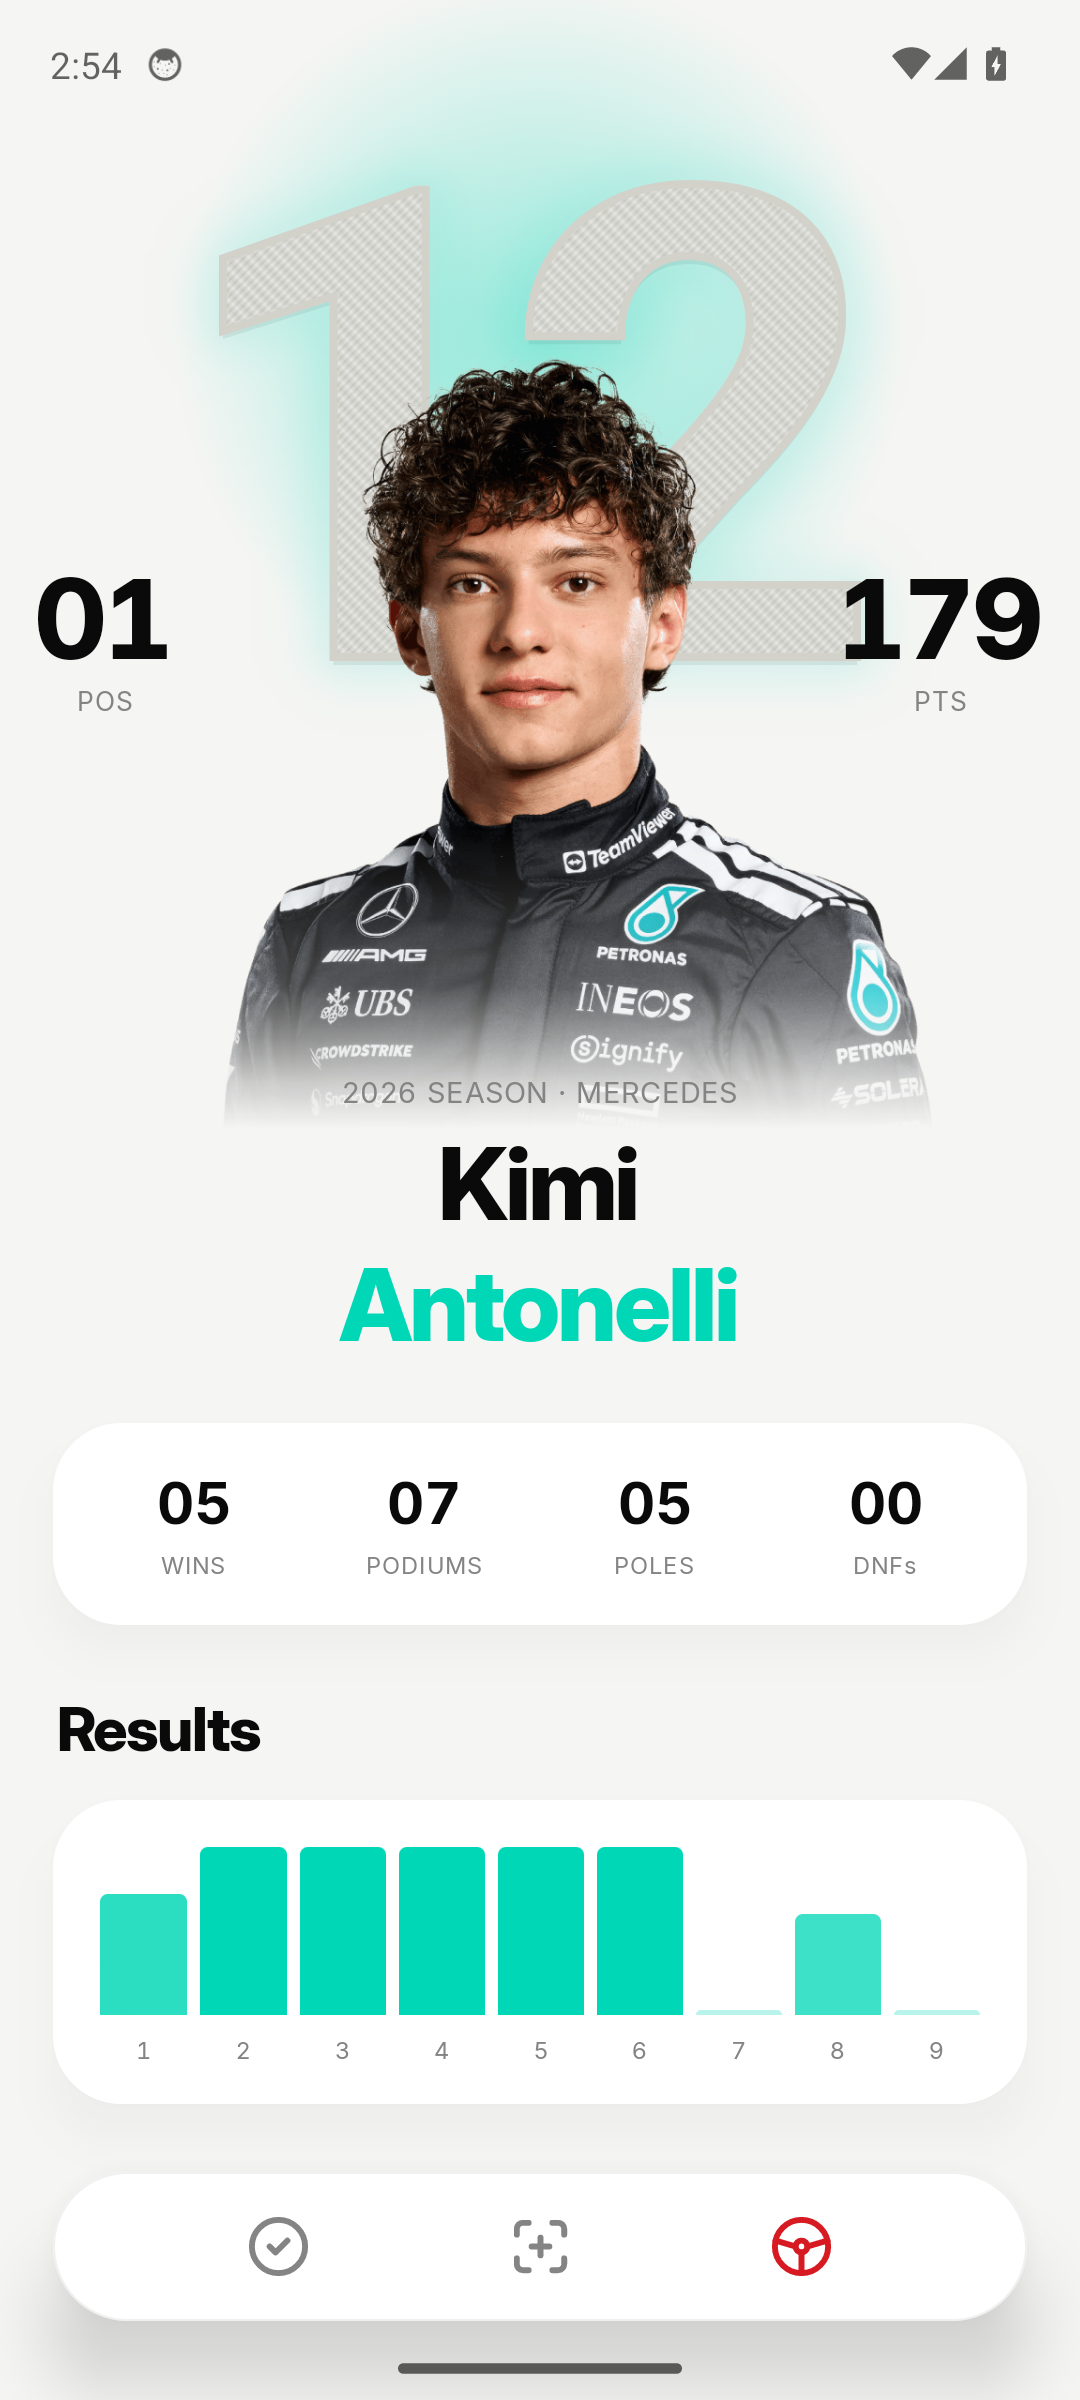
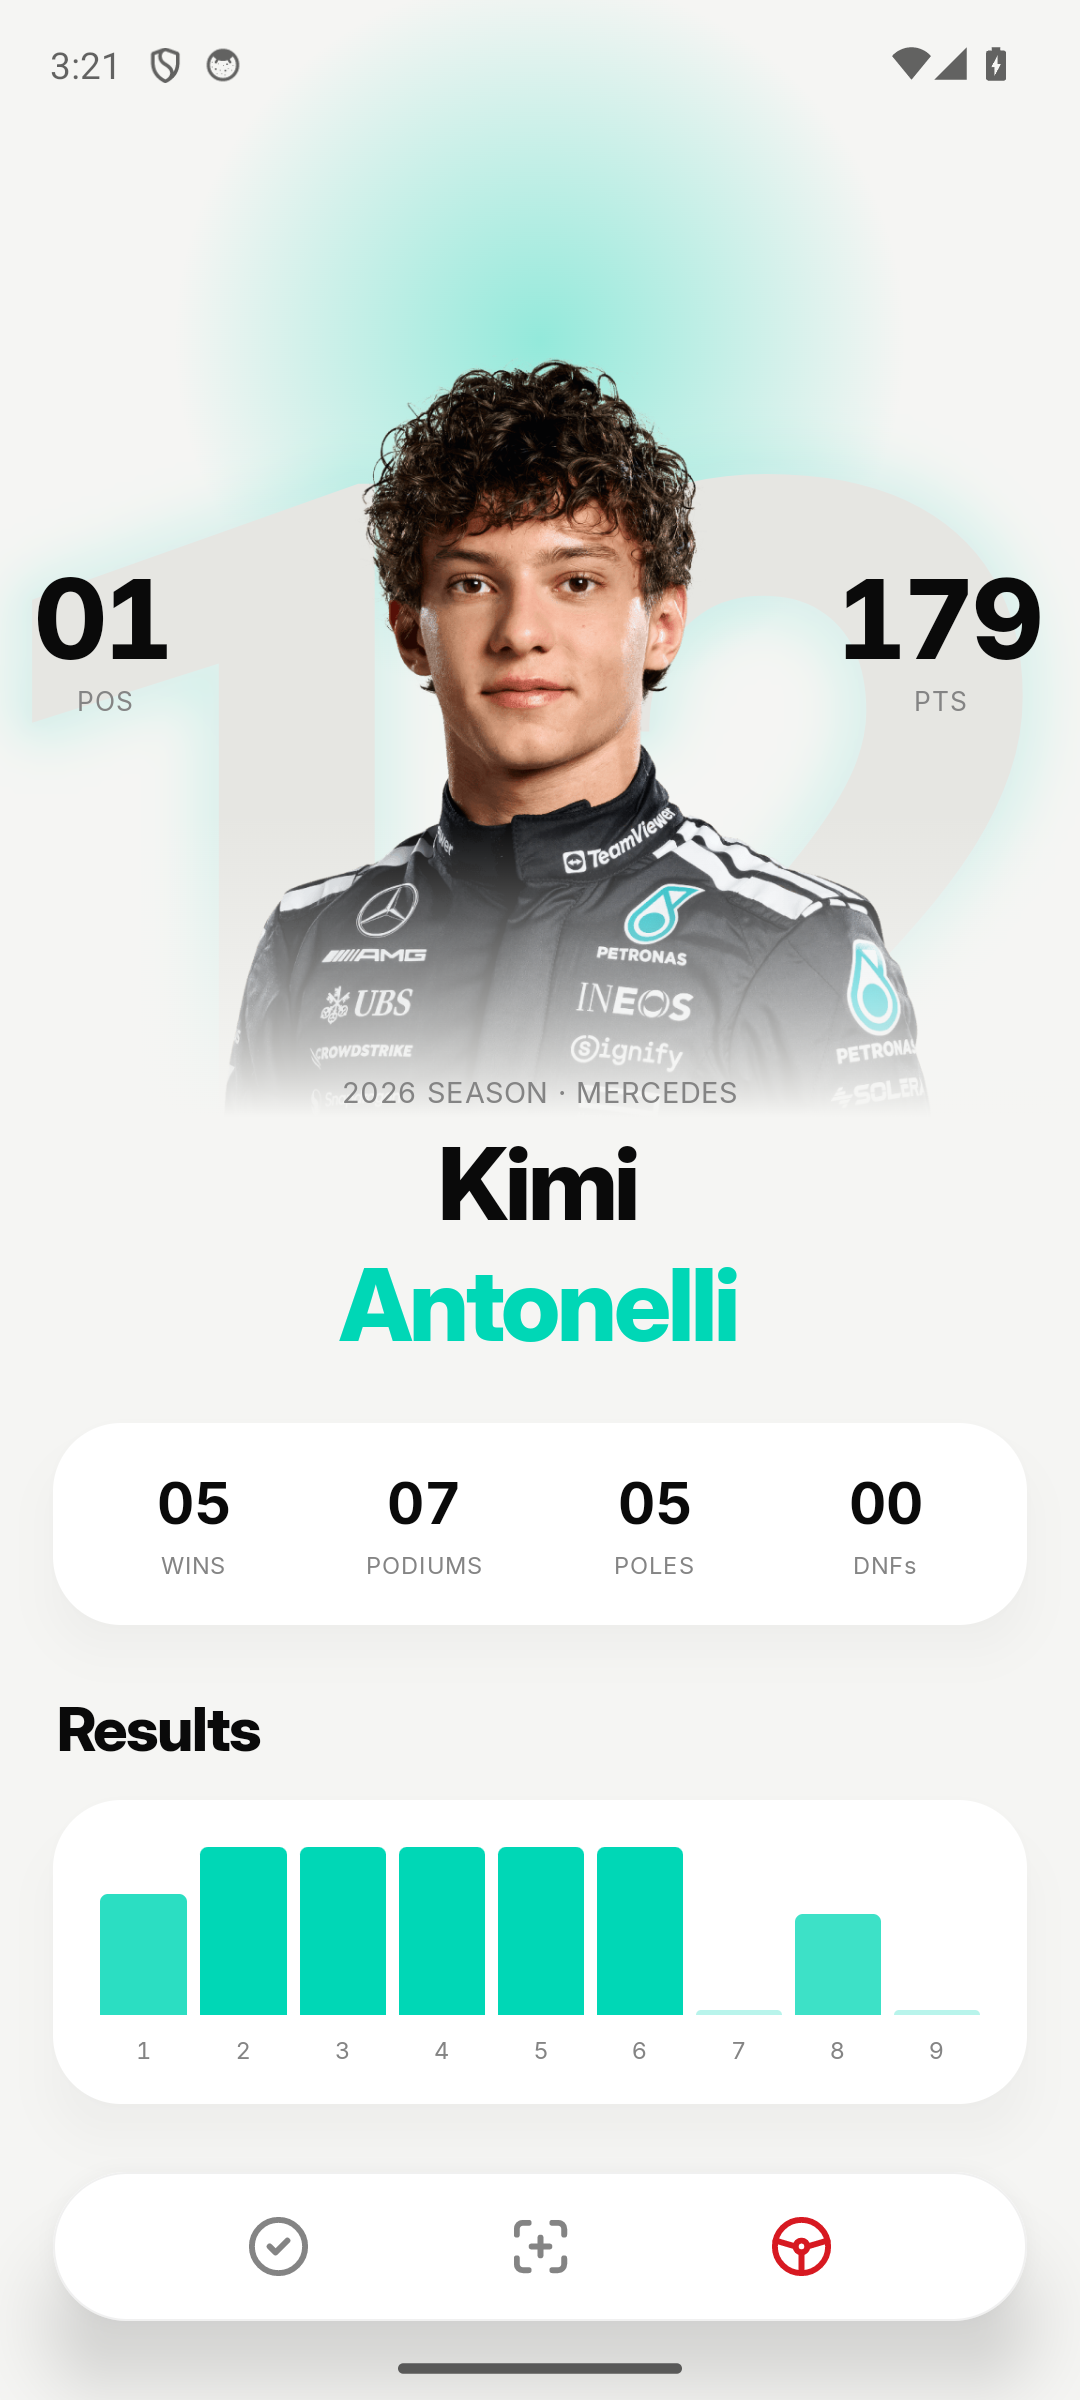
v1.1.1 — hero number rework + occlusion fix
- Width-target scaling (~95% of hero), tight tracking (-0.11em), lower center
  (64%) so the number reads as one unit and drops under the name.
- Solid dark-carbon fill + team glow (dropped the twill/stroke).
- Name-fade gradient dissolves the number's base into the name block.
- Fix: driver photo is now opaque so the number can't bleed through the
  translucent suit and ghost over the driver; the bottom is dissolved by the
  name-fade's canvas plateau instead of a per-photo mask.
- versionCode 3 / versionName 1.1.1

diff --git a/app/src/main/java/dev/anpo/f1/ui/Screens.kt b/app/src/main/java/dev/anpo/f1/ui/Screens.kt
@@ -14,11 +14,13 @@ import androidx.compose.ui.BiasAlignment
 import androidx.compose.ui.Modifier
 import androidx.compose.ui.draw.alpha
 import androidx.compose.ui.draw.clip
+import androidx.compose.ui.graphics.Brush
 import androidx.compose.ui.graphics.Color
 import androidx.compose.ui.layout.ContentScale
 import androidx.compose.ui.res.painterResource
 import androidx.compose.ui.unit.dp
 import androidx.compose.ui.unit.sp
+import androidx.compose.ui.zIndex
 import dev.anpo.f1.R
 import dev.anpo.f1.data.*
 import coil.compose.AsyncImage
@@ -328,37 +330,36 @@ fun DriverScreen(repo: Repo, driverId: String) {
         // The figure is lifted (offset) so the name block sits over the FADED tail of
         // the photo, not the solid chest - otherwise the season line is unreadable.
         Box(Modifier.fillMaxWidth().height(520.dp).glow(col)) {
-            // Number runs BIG (250sp) so it spills past the head silhouette on both
-            // sides - that overspill is what reads as "behind the figure", not the
-            // photo's position. Canvas pulled up (top 20dp) to sit above the face.
-            CarbonNumber("${d.number ?: 0}", col,
-                Modifier.fillMaxWidth().height(300.dp).align(Alignment.TopCenter).padding(top = 20.dp),
-                sizeSp = 250f)
+            // The number fills the whole hero, self-sizes to ~95% width, and sits low so
+            // the tops bleed behind the head and the base drops into the name.
+            CarbonNumber("${d.number ?: 0}", col, Modifier.matchParentSize())
             if (key != null) {
-                // The mask goes on a WRAPPER, not on AsyncImage: Coil composites its
-                // painter in its own layer, so a DstIn rect on the image's own modifier
-                // never touches its pixels. As the Box's child, the photo is pulled into
-                // the offscreen layer by drawContent() and the fade actually bites. Square
-                // box so the square headshot fills it with the chest at the box's bottom
-                // (no letterbox), then the whole thing is masked and lifted 90dp.
-                Box(Modifier.size(300.dp).align(Alignment.BottomCenter)
-                    .offset(y = (-90).dp).fadeBottom()) {
-                    // Original colour. Team identity comes from the surroundings, not the person.
-                    AsyncImage(
-                        model = Net.headshot(key), contentDescription = "${d.given} ${d.family}",
-                        contentScale = ContentScale.Fit, modifier = Modifier.fillMaxSize()
-                    )
-                }
+                // OPAQUE - no per-photo fade. The photo must fully occlude the number
+                // behind it, or the number bleeds through the translucent suit and reads
+                // as a low-opacity overlay ON the driver. The bottom is dissolved by the
+                // name-fade below instead. Square box: chest sits at the box's bottom.
+                AsyncImage(
+                    model = Net.headshot(key), contentDescription = "${d.given} ${d.family}",
+                    contentScale = ContentScale.Fit,
+                    modifier = Modifier.size(300.dp).align(Alignment.BottomCenter).offset(y = (-90).dp)
+                )
             }
-            // Pinned to ~46% of the hero (not centre, which is mid-torso in a 520dp
-            // box) so POS/PTS sit at the shoulder line, flanking the face.
-            Column(Modifier.align(BiasAlignment(-1f, -0.08f)).padding(start = 14.dp).wrapContentWidth(),
+            // Name-fade: dissolves BOTH the photo's bottom edge and the number's base into
+            // the canvas. The canvas plateau (from ~55%) fully covers the number where it
+            // sits behind the lower figure; the fade-in blends the driver's chest. This is
+            // the single bottom dissolve - it replaces the photo's own DstIn mask.
+            Box(Modifier.align(Alignment.BottomCenter).fillMaxWidth().height(210.dp)
+                .background(Brush.verticalGradient(0f to Color.Transparent, 0.55f to p.canvas, 1f to p.canvas)))
+            // Pinned to ~46% of the hero (relative to the Box, NOT the number) so they
+            // stay at the shoulder line when the number drops. zIndex keeps them above
+            // the carbon, which now reaches up into this band.
+            Column(Modifier.align(BiasAlignment(-1f, -0.08f)).zIndex(1f).padding(start = 14.dp).wrapContentWidth(),
                 horizontalAlignment = Alignment.CenterHorizontally) {
                 Text("%02d".format(d.position), style = F1Type.display.copy(color = p.txt, fontSize = 42.sp),
                     maxLines = 1, softWrap = false)
                 Text("POS", style = F1Type.label.copy(color = p.sec))
             }
-            Column(Modifier.align(BiasAlignment(1f, -0.08f)).padding(end = 14.dp).wrapContentWidth(),
+            Column(Modifier.align(BiasAlignment(1f, -0.08f)).zIndex(1f).padding(end = 14.dp).wrapContentWidth(),
                 horizontalAlignment = Alignment.CenterHorizontally) {
                 Text("${d.points}", style = F1Type.display.copy(color = p.txt, fontSize = 42.sp),
                     maxLines = 1, softWrap = false)
@@ -504,8 +505,7 @@ fun ConstructorScreen(repo: Repo, teamId: String, onDriver: (String) -> Unit) {
 
     Column(Modifier.fillMaxSize().background(p.canvas).verticalScroll(rememberScrollState())) {
         Box(Modifier.fillMaxWidth().height(430.dp).glow(col)) {
-            CarbonNumber("%02d".format(position), col,
-                Modifier.fillMaxWidth().height(250.dp).align(Alignment.TopCenter).padding(top = 24.dp), sizeSp = 200f)
+            CarbonNumber("%02d".format(position), col, Modifier.matchParentSize())
             // Both drivers, overlapping slightly, tappable through to their pages.
             Row(Modifier.align(Alignment.TopCenter).padding(top = 128.dp)) {
                 teamDrivers.forEachIndexed { i, dr ->
@@ -530,12 +530,15 @@ fun ConstructorScreen(repo: Repo, teamId: String, onDriver: (String) -> Unit) {
                     }
                 }
             }
-            Column(Modifier.align(BiasAlignment(-1f, -0.15f)).padding(start = 14.dp).wrapContentWidth(),
+            // Name-fade: dissolve the position number's base into the constructor name.
+            Box(Modifier.align(Alignment.BottomCenter).fillMaxWidth().height(120.dp)
+                .background(Brush.verticalGradient(listOf(Color.Transparent, p.canvas))))
+            Column(Modifier.align(BiasAlignment(-1f, -0.15f)).zIndex(1f).padding(start = 14.dp).wrapContentWidth(),
                 horizontalAlignment = Alignment.CenterHorizontally) {
                 Text("${team.points}", style = F1Type.display.copy(color = p.txt, fontSize = 38.sp), maxLines = 1, softWrap = false)
                 Text("PTS", style = F1Type.label.copy(color = p.sec))
             }
-            Column(Modifier.align(BiasAlignment(1f, -0.15f)).padding(end = 14.dp).wrapContentWidth(),
+            Column(Modifier.align(BiasAlignment(1f, -0.15f)).zIndex(1f).padding(end = 14.dp).wrapContentWidth(),
                 horizontalAlignment = Alignment.CenterHorizontally) {
                 Text("${info.champs}", style = F1Type.display.copy(color = p.txt, fontSize = 38.sp), maxLines = 1, softWrap = false)
                 Text("TITLES", style = F1Type.label.copy(color = p.sec))

diff --git a/app/src/main/java/dev/anpo/f1/ui/Components.kt b/app/src/main/java/dev/anpo/f1/ui/Components.kt
@@ -199,33 +199,33 @@ fun StatBlock(value: String, label: String, modifier: Modifier = Modifier) {
  * than as stripes; on a 3x screen each rib gets 18 physical pixels.
  */
 @Composable
-fun CarbonNumber(number: String, glowColour: Color, modifier: Modifier = Modifier, sizeSp: Float = 186f) {
+fun CarbonNumber(number: String, glowColour: Color, modifier: Modifier = Modifier, centerFraction: Float = 0.64f) {
     val p = LocalPalette.current
     Canvas(modifier) {
-        // Compose's MultiParagraph.getPathForRange returns the SELECTION box of the
-        // text, not the glyph outlines - clipping carbon to it yields a rectangle.
-        // Go to the platform Paint for true outlines, which is what we clip against.
-        val paint = android.graphics.Paint(android.graphics.Paint.ANTI_ALIAS_FLAG).apply {
-            textSize = sizeSp.sp.toPx()
+        // getPathForRange returns the SELECTION box, not glyph outlines - use platform Paint.
+        // Tight tracking (-0.11em) so the two digits read as one unit ("12", "44"), not two.
+        fun makePaint(sizePx: Float) = android.graphics.Paint(android.graphics.Paint.ANTI_ALIAS_FLAG).apply {
+            textSize = sizePx
             typeface = android.graphics.Typeface.create(android.graphics.Typeface.DEFAULT, android.graphics.Typeface.BOLD)
-            letterSpacing = -0.06f
+            letterSpacing = -0.11f
             textAlign = android.graphics.Paint.Align.CENTER
         }
+        // Size to a TARGET WIDTH (~95% of the hero), not a fixed height: measure at a
+        // reference size then scale. "1" and "44" land at the same visual weight; coerceIn
+        // caps a lone "1" (which would otherwise be absurdly tall) and floors a wide number.
+        val refWidth = makePaint(100.sp.toPx()).measureText(number).coerceAtLeast(1f)
+        val finalSp = (100f * (size.width * 0.95f / refWidth)).coerceIn(160f, 480f)
         val glyph = android.graphics.Path()
-        paint.getTextPath(number, 0, number.length, 0f, 0f, glyph)
+        makePaint(finalSp.sp.toPx()).getTextPath(number, 0, number.length, 0f, 0f, glyph)
         val b = android.graphics.RectF()
         glyph.computeBounds(b, true)
-        glyph.offset(size.width / 2f - b.centerX(), size.height / 2f - b.centerY())
+        // Centre horizontally on the face; vertical centre low (~64%) so the tops bleed up
+        // behind the head and the base drops into the name area (masked by the name-fade).
+        glyph.offset(size.width / 2f - b.centerX(), size.height * centerFraction - b.centerY())
         val path = glyph.asComposePath()
 
-        // 1. Engrave, under everything: same glyph +3dp Y, a hairline of light. The
-        //    sliver peeking below each lower edge is what reads as an engraved recess.
-        val lip = android.graphics.Path(glyph).apply { offset(0f, 3.dp.toPx()) }
-        drawPath(lip.asComposePath(), color = p.engrave)
-
-        // 2. Glow FOLLOWS the glyph, not a circle behind it: a blurred stroke of the
-        //    actual path - wide team-colour, then tight neutral - so the halo wraps the
-        //    digits' contour (drop-shadow-on-alpha, per the reference).
+        // Team glow behind: a blurred stroke of the glyph outline - wide colour, tight
+        // neutral - so the halo wraps the digits' contour (drop-shadow on the alpha).
         drawIntoCanvas { canvas ->
             val gp = Paint().asFrameworkPaint().apply {
                 isAntiAlias = true
@@ -240,37 +240,8 @@ fun CarbonNumber(number: String, glowColour: Color, modifier: Modifier = Modifie
             canvas.nativeCanvas.drawPath(glyph, gp)
         }
 
-        // 3. Carbon fill, clipped to the glyph. Exact port of the reference recipe
-        //    (f1-tab-complete.html .cbD/.cbL): opaque 45deg #23232B/#14141A bands (the
-        //    dominant rib), a faint 45deg sheen, then a 135deg cross-fibre. The sheen
-        //    reinforces the diagonal so the cross reads as weave, not a lattice.
-        clipPath(path) {
-            val h = size.height
-            val period = 6.dp.toPx()   // rib period
-            val fine = 3.dp.toPx()     // sheen / cross period
-            val base = if (p.isDark) Color(0xFF14141A) else Color(0xFFE9E9E5)
-            val rib = if (p.isDark) Color(0xFF23232B) else Color(0xFFDBDBD5)
-            val sheen = if (p.isDark) Color(0x09FFFFFF) else Color(0x07000000)
-            val cross = if (p.isDark) Color(0x12FFFFFF) else Color(0x0E000000)
-            drawRect(base)
-            var i = -h
-            while (i < size.width + h) {                 // 45deg dominant rib (3dp band / 6dp)
-                drawLine(rib, Offset(i, 0f), Offset(i + h, h), strokeWidth = fine)
-                i += period
-            }
-            var s = -h
-            while (s < size.width + h) {                 // 45deg sheen: 1px every 3dp
-                drawLine(sheen, Offset(s, 0f), Offset(s + h, h), strokeWidth = 1.dp.toPx())
-                s += fine
-            }
-            var j = -h
-            while (j < size.width + h) {                 // 135deg cross-fibre: 1px every 3dp
-                drawLine(cross, Offset(j + h, 0f), Offset(j, h), strokeWidth = 1.dp.toPx())
-                j += fine
-            }
-        }
-
-        // 4. Stroke rides the same path.
-        drawPath(path, color = p.numStroke, style = Stroke(width = 3.dp.toPx()))
+        // Solid filled glyph, dark carbon - no hollow stroke, no twill. The team glow
+        // behind is what reads; the fill is barely above canvas so it sits back.
+        drawPath(path, color = if (p.isDark) Color(0xFF17171B) else Color(0xFFE6E6E2))
     }
 }
